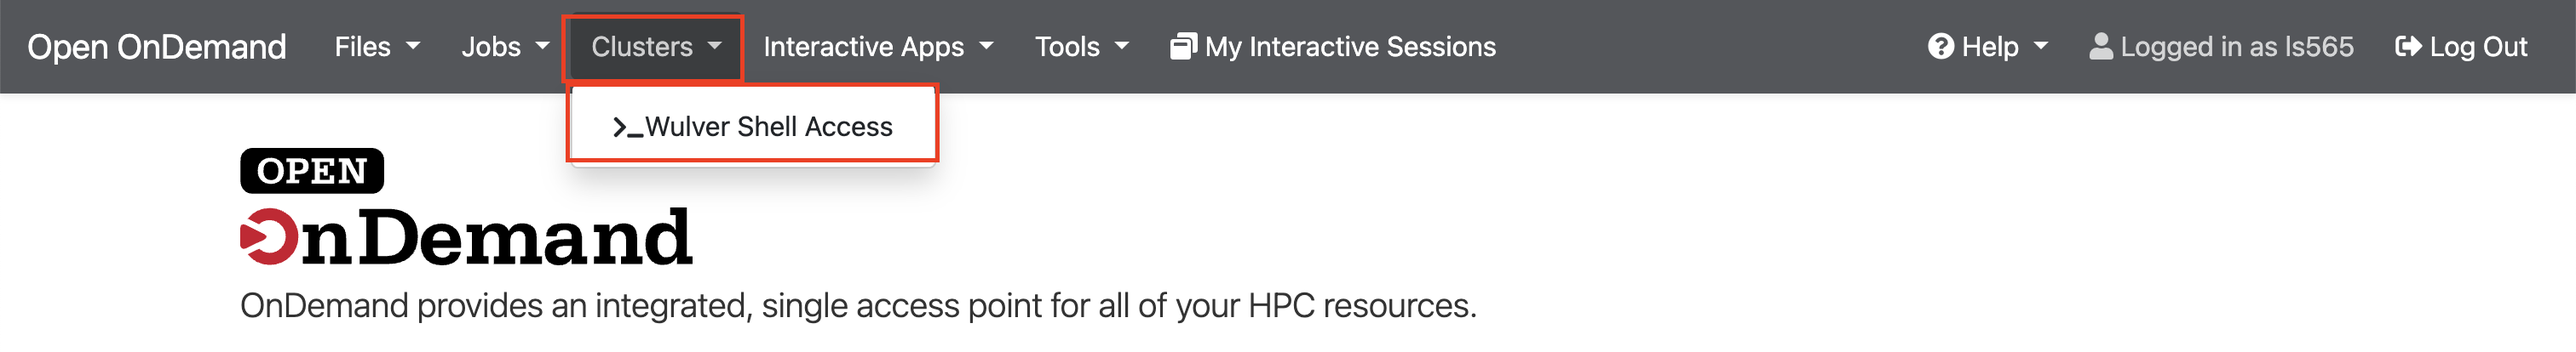
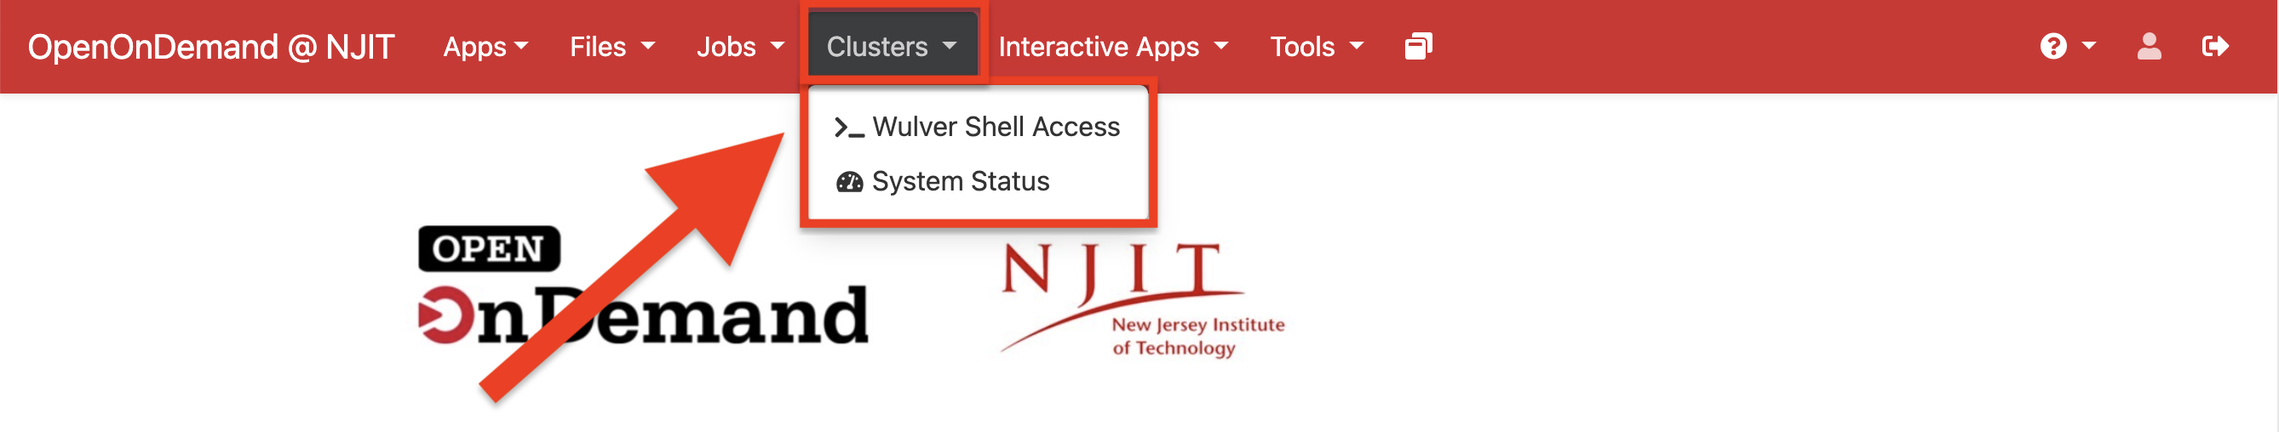
ood/clusters: update cluster page with new image and system status feature

diff --git a/docs/OnDemand/3_clusters.md b/docs/OnDemand/3_clusters.md
@@ -1,15 +1,24 @@
 # Clusters
 ## Overview
 
-Cluster shell provides you CLI access to Wulver through browser based terminal. 
+The Clusters section provides browser-based access to the Wulver cluster along with real-time information about its current usage.
 
+![wulver-shell-access-1.png](../assets/ondemand/cluster_shell/wulver-shell-access-1.png){ width=100% height=100%}
 
-![wulver-shell-access-1.png](../assets/ondemand/cluster_shell/wulver-shell-access-1.png){ width=80% height=80%}
+### Web Shell Access
 
+Web shell access provides a command-line interface to the Wulver cluster directly through your browser. The web shell functions like a standard terminal session on a login node, allowing users to run commands, submit and monitor jobs, and manage files without requiring a local SSH client.
 
-![wulver-shell-access-2.png](../assets/ondemand/cluster_shell/wulver-shell-access-2.png){ width=80% height=80%}
-
+![wulver-shell-access-2.png](../assets/ondemand/cluster_shell/wulver-shell-access-2.png){ width=100% height=100%}
 
 
 !!! Tip
-    If you are on windows and don't have shell access, then this feature is very helpful.
+    If you are on Windows or do not have access to a local terminal or SSH client, the web shell provides a convenient alternative with no additional setup required.
+
+
+### System Status
+
+The System Status page provides a real-time snapshot of the Wulver cluster’s current state. It displays overall availability and utilization of compute nodes, processors, and GPUs, along with the number of running and queued jobs. This view is useful for quickly assessing cluster load before submitting jobs or troubleshooting scheduling delays.
+
+
+![system-status.png](../assets/ondemand/cluster_shell/system_status.png){ width=100% height=100%}
